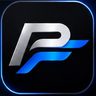
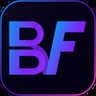
Identidade visual definitiva: monograma BF e paleta da marca
- favicon e img/blackflow-icone.png refeitos com o monograma BF, no lugar
  do simbolo PF da identidade inicial
- --v1, --v2 e --v3 passam a ser as cores da marca: #5a4cfb, #1b86fb e
  #f139ce, sobre o mesmo preto #0a0820 ja em uso
- og:title, og:description, og:image, og:url e twitter:card acrescentados;
  o site nao tinha nenhuma tag de previa de link

Claude-Session: https://claude.ai/code/session_01MG5FszR5hmsJPVLXw5GzNx

diff --git a/index.html b/index.html
@@ -6,11 +6,12 @@
 <title>BlackSolutions</title>
 <meta name="description" content="BlackSolutions: BlackFlow, agenda e gestão para clínicas, salões e profissionais de hora marcada, e Lex Calc, cálculos jurídicos e tributários com o LexMandato para procurações e contratos. Veja todas as telas e como funcionam.">
 <meta name="theme-color" content="#0a0820">
+<meta property="og:title" content="BlackSolutions"><meta property="og:description" content="BlackFlow, agenda e gestão para clínicas e salões. Lex Calc, cálculos jurídicos e tributários."><meta property="og:image" content="https://blackflow.app.br/img/blackflow-og-1200.webp"><meta property="og:url" content="https://blacksolutions.net.br/"><meta property="og:type" content="website"><meta name="twitter:card" content="summary_large_image">
 <link rel="icon" href="favicon.ico">
 <link rel="preconnect" href="https://fonts.googleapis.com"><link rel="preconnect" href="https://fonts.gstatic.com" crossorigin>
 <link href="https://fonts.googleapis.com/css2?family=Plus+Jakarta+Sans:wght@400;600;700;800&family=Playfair+Display:wght@700&display=swap" rel="stylesheet">
 <style>
-:root{--bg:#0a0820;--bg2:#120f33;--card:#17143d;--line:#2e2a66;--txt:#f4f3ff;--mut:#b7b3e0;--v1:#7b5cff;--v2:#00d1ff;--v3:#ff4fd8;--gold:#f2c264;--gold2:#ffe3a1;--green:#25d366}
+:root{--bg:#0a0820;--bg2:#120f33;--card:#17143d;--line:#2e2a66;--txt:#f4f3ff;--mut:#b7b3e0;--v1:#5a4cfb;--v2:#1b86fb;--v3:#f139ce;--gold:#f2c264;--gold2:#ffe3a1;--green:#25d366}
 *{box-sizing:border-box}html{scroll-behavior:smooth}body{margin:0;background:var(--bg);color:var(--txt);font-family:"Plus Jakarta Sans","Segoe UI",Roboto,Arial,sans-serif;line-height:1.6}
 a{color:inherit}img{max-width:100%;height:auto;display:block}
 .w{max-width:1200px;margin:0 auto;padding:0 20px}
